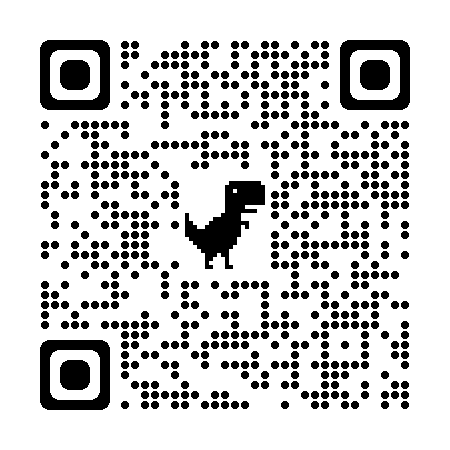
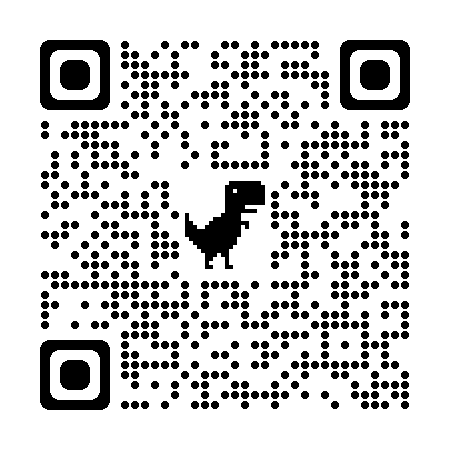
Actualizacion del site - wireframe

diff --git a/index.html b/index.html
@@ -97,18 +97,20 @@
 
     <!-- Wireframe -->
     <section id="wireframe">
-        <div class="container">
+        <div class="container flex2">
             <div class="textowire">
 
                 <h2>Wireframe</h2>
                 <p>Lorem ipsum dolor sit amet consectetur adipisicing elit. Molestiae vel ipsam odit? Nulla culpa cumque
-                    accusantium, laboriosam ratione dolore expedita neque aliquid, facere <span> perferendis error
-                        distinctio facilis </span> aut tenetur accusamus!</p>
-                <a href="wireframe.pdf" target="_blank">PDF</a>
+                    accusantium, laboriosam ratione dolore expedita neque aliquid, facere <span> Escanee el codigo QR
+                    </span> para obtener el wireframe desde esta pagina</p>
+                <a href="wireframe.pdf" target="_blank" class="boton">PDF</a>
             </div>
-            <div id="qrcode">
 
+            <div id="qrcode">
+                <img src="img/qrcode.png" alt="QR-code">
             </div>
+
         </div>
     </section>
 

diff --git a/style.css b/style.css
@@ -167,6 +167,32 @@ main h2 {
 	border: 0;
 }
 
+/* wireframe */
+#wireframe {
+	padding: 50px 0px;
+	background: url(img/background.png);
+	background-size: cover;
+	background-position: center;
+}
+
+.textowire {
+	color: #fff;
+	padding: 0 10px;
+}
+
+.textowire h2 {
+	margin-bottom: 10px;
+}
+.textowire p {
+	margin-bottom: 40px;
+}
+.textowire span {
+	display: none;
+}
+#qrcode {
+	display: none;
+}
+
 /* smartphone Landscape============================= */
 @media (min-width: 576px) {
 	/* layout */
@@ -268,5 +294,20 @@ main h2 {
 	.flex3 {
 		flex-direction: row;
 		align-items: center;
+	}
+	/* wireframe */
+	#wireframe {
+		background-attachment: fixed;
+	}
+	#wireframe span {
+		display: inline;
+		color: #000;
+	}
+	#qrcode {
+		display: inline;
+	}
+	#qrcode img {
+		width: 225px;
+		height: 225px;
 	}
 }
